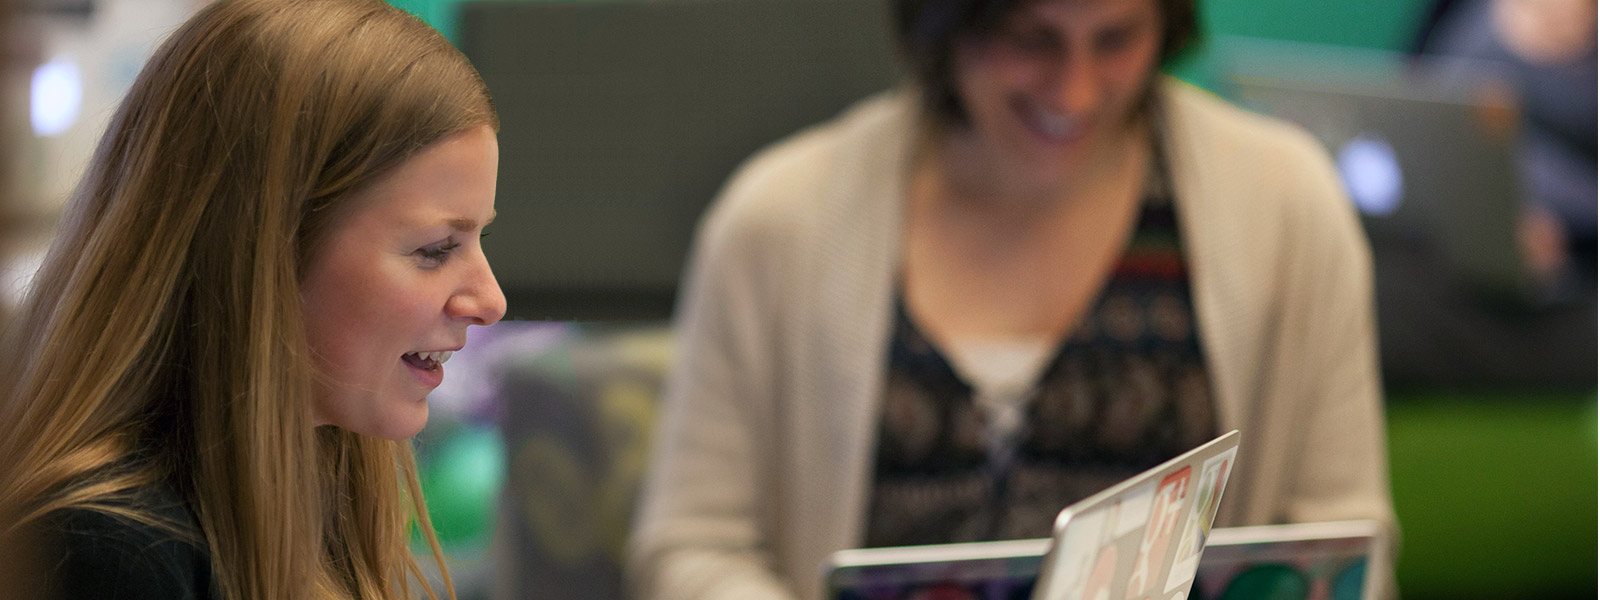
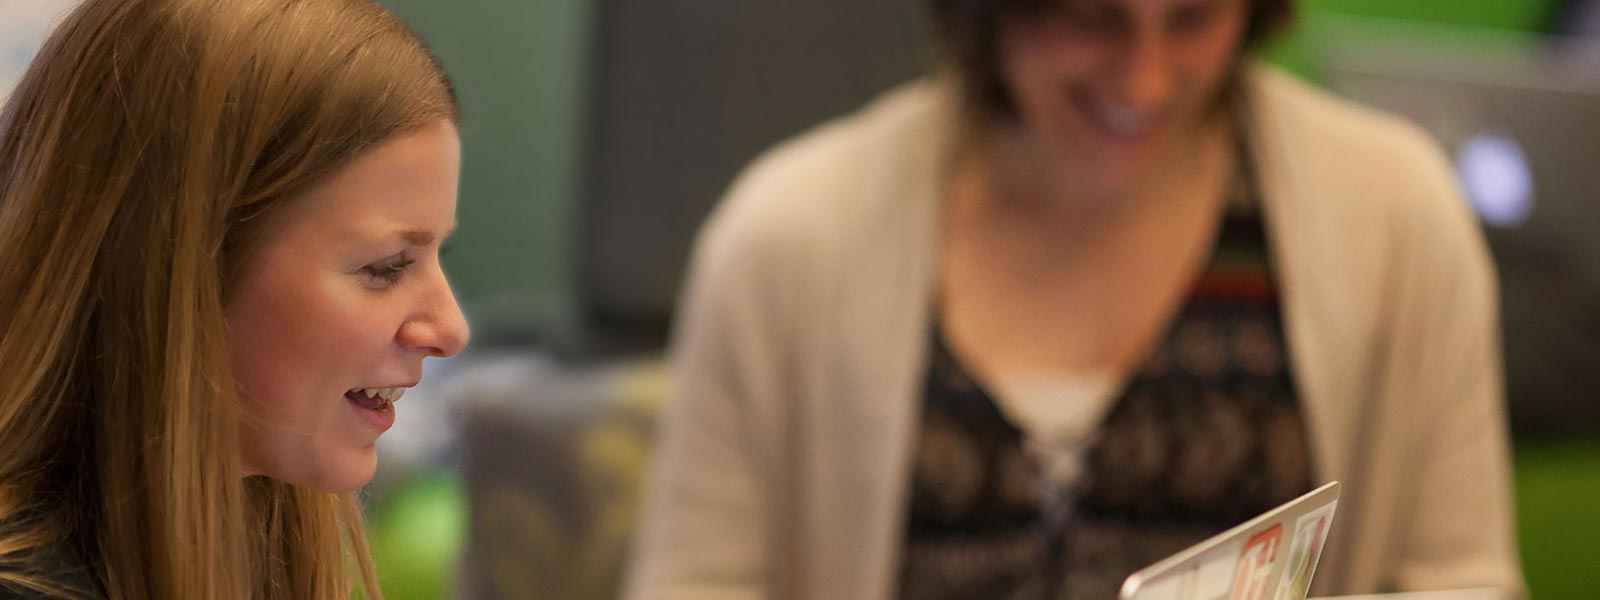
New header and gradient.

diff --git a/css/style.css b/css/style.css
@@ -173,7 +173,7 @@ button {
 
 /* line 1, sass/_layers.sass */
 .bg-photo {
-  background-image: url('../img/header-1.jpg?1391632555');
+  background-image: url('../img/header-1.jpg?1391639894');
   background-position: center;
   background-size: cover;
   position: absolute;
@@ -187,15 +187,15 @@ button {
     /* line 1, sass/_layers.sass */
     .bg-photo {
       background-size: auto;
-      background-image: url('../img/header-1-large.jpg?1391632694'); } }
+      background-image: url('../img/header-1-large.jpg?1391639827'); } }
   @media screen and (max-width: 1024px) {
     /* line 1, sass/_layers.sass */
     .bg-photo {
-      background-image: url('../img/header-1-medium.jpg?1391632784'); } }
+      background-image: url('../img/header-1-medium.jpg?1391640012'); } }
   @media screen and (max-width: 640px) {
     /* line 1, sass/_layers.sass */
     .bg-photo {
-      background-image: url('../img/header-1-small.jpg?1391632848'); } }
+      background-image: url('../img/header-1-small.jpg?1391639880'); } }
 
 /* line 7, sass/_layers.sass */
 .pattern-header {
@@ -244,16 +244,29 @@ button {
   text-align: center;
   width: 100%;
   overflow: hidden; }
-  /* line 8, sass/_header.sass */
+  /* line 7, sass/_header.sass */
+  .page-header .header-gradient {
+    background-image: -webkit-gradient(linear, 50% 0%, 50% 100%, color-stop(0%, rgba(0, 0, 0, 0.65)), color-stop(34%, rgba(0, 0, 0, 0.65)), color-stop(100%, rgba(0, 0, 0, 0)));
+    background-image: -webkit-linear-gradient(top, rgba(0, 0, 0, 0.65) 0%, rgba(0, 0, 0, 0.65) 34%, rgba(0, 0, 0, 0) 100%);
+    background-image: -moz-linear-gradient(top, rgba(0, 0, 0, 0.65) 0%, rgba(0, 0, 0, 0.65) 34%, rgba(0, 0, 0, 0) 100%);
+    background-image: -o-linear-gradient(top, rgba(0, 0, 0, 0.65) 0%, rgba(0, 0, 0, 0.65) 34%, rgba(0, 0, 0, 0) 100%);
+    background-image: linear-gradient(top, rgba(0, 0, 0, 0.65) 0%, rgba(0, 0, 0, 0.65) 34%, rgba(0, 0, 0, 0) 100%);
+    width: 100%;
+    height: 250px;
+    position: absolute;
+    top: 0;
+    left: 0;
+    opacity: 0.75; }
+  /* line 17, sass/_header.sass */
   .page-header h1.site-title img {
     width: 100%;
     max-width: 627px; }
-  /* line 12, sass/_header.sass */
+  /* line 21, sass/_header.sass */
   .page-header h2 {
     font-size: 30px;
     font-style: italic;
     margin-top: 18px; }
-  /* line 17, sass/_header.sass */
+  /* line 26, sass/_header.sass */
   .page-header .events-jumper {
     background: url('../img/find-events-button.png?1391562680') top no-repeat;
     background-size: 193px;
@@ -263,102 +276,102 @@ button {
     padding: 19.2px 0 0 0;
     width: 193px;
     height: 76px; }
-  /* line 27, sass/_header.sass */
+  /* line 36, sass/_header.sass */
   .page-header .google-logo {
     position: fixed;
     left: 50%;
     margin-left: -468px;
     width: 75px; }
-  /* line 37, sass/_header.sass */
+  /* line 46, sass/_header.sass */
   .page-header.dark h2 {
     color: white; }
-  /* line 40, sass/_header.sass */
+  /* line 49, sass/_header.sass */
   .page-header.dark .google-logo {
     opacity: 0.5; }
-  /* line 44, sass/_header.sass */
+  /* line 53, sass/_header.sass */
   .page-header.light h2 {
     color: #999999; }
-  /* line 47, sass/_header.sass */
+  /* line 56, sass/_header.sass */
   .page-header.light .google-logo {
     opacity: 1; }
 
-/* line 64, sass/_header.sass */
+/* line 73, sass/_header.sass */
 .page-header {
   height: 800px; }
 
-/* line 67, sass/_header.sass */
+/* line 76, sass/_header.sass */
 .google-logo {
   top: 765px; }
 
-/* line 70, sass/_header.sass */
+/* line 79, sass/_header.sass */
 .bg-photo {
   height: 850px; }
 
-/* line 73, sass/_header.sass */
+/* line 82, sass/_header.sass */
 .page-header {
   padding-top: 144px; }
-  /* line 76, sass/_header.sass */
+  /* line 85, sass/_header.sass */
   .page-header .events-jumper {
     margin-top: 144px; }
 
 @media screen and (max-width: 1600px) {
-  /* line 81, sass/_header.sass */
+  /* line 90, sass/_header.sass */
   .page-header {
     height: 550px; }
 
-  /* line 84, sass/_header.sass */
+  /* line 93, sass/_header.sass */
   .google-logo {
     top: 515px; }
 
-  /* line 87, sass/_header.sass */
+  /* line 96, sass/_header.sass */
   .bg-photo {
     height: 600px; }
 
-  /* line 90, sass/_header.sass */
+  /* line 99, sass/_header.sass */
   .page-header {
     padding-top: 96px; }
-    /* line 93, sass/_header.sass */
+    /* line 102, sass/_header.sass */
     .page-header .events-jumper {
       margin-top: 96px; } }
 @media screen and (max-width: 1024px) {
-  /* line 98, sass/_header.sass */
+  /* line 107, sass/_header.sass */
   .page-header {
     height: 350px; }
 
-  /* line 101, sass/_header.sass */
+  /* line 110, sass/_header.sass */
   .google-logo {
     top: 315px; }
 
-  /* line 104, sass/_header.sass */
+  /* line 113, sass/_header.sass */
   .bg-photo {
     height: 400px; }
 
-  /* line 107, sass/_header.sass */
+  /* line 116, sass/_header.sass */
   .page-header {
     padding-top: 48px; }
-    /* line 110, sass/_header.sass */
+    /* line 119, sass/_header.sass */
     .page-header .events-jumper {
       margin-top: 6px; } }
 @media screen and (max-width: 640px) {
-  /* line 115, sass/_header.sass */
+  /* line 124, sass/_header.sass */
   .page-header {
     height: 250px; }
 
-  /* line 118, sass/_header.sass */
+  /* line 127, sass/_header.sass */
   .google-logo {
     top: 215px; }
 
-  /* line 121, sass/_header.sass */
+  /* line 130, sass/_header.sass */
   .bg-photo {
     height: 300px; }
 
-  /* line 124, sass/_header.sass */
+  /* line 133, sass/_header.sass */
   .page-header {
     padding-top: 12px; }
-    /* line 127, sass/_header.sass */
+    /* line 136, sass/_header.sass */
     .page-header h2 {
       font-size: 20px; }
-    /* line 130, sass/_header.sass */
+    /* line 139, sass/_header.sass */
     .page-header .events-jumper {
       margin-top: 4.8px; } }
 /* line 1, sass/_nav.sass */

diff --git a/index.html b/index.html
@@ -19,11 +19,12 @@
 
 <header class="page-header dark" id="home">
   <div class="pattern-header"></div>
+  <div class="header-gradient"></div>
   <img class="google-logo" format="svg png" ocu-src="img/google-logo" alt="Sponsored by Google">
 
   <div class="container">
     <h1 class="site-title">
-      <img format="svg png" ocu-src="img/logo-lockup-gray" alt="Women Techmakers">
+      <img format="svg png" ocu-src="img/logo-lockup-white" alt="Women Techmakers">
     </h1>
     <h2>Engineering the Future</h2>
     <a class="events-jumper" href="#events" ocu-scroll-click>Register for an Event</a>

diff --git a/css/sass/_header.sass b/css/sass/_header.sass
@@ -4,6 +4,15 @@
   width: 100%
   overflow: hidden
 
+  .header-gradient
+    @include background-image(linear-gradient(top, rgba(0,0,0,0.65) 0%, rgba(0,0,0,0.65) 34%, rgba(0,0,0,0) 100%))
+    width: 100%
+    height: 250px
+    position: absolute
+    top: 0
+    left: 0
+    opacity: .75
+
   h1.site-title
     img
       width: 100%
